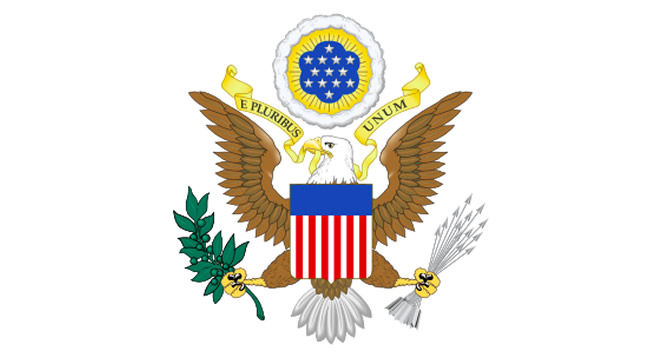
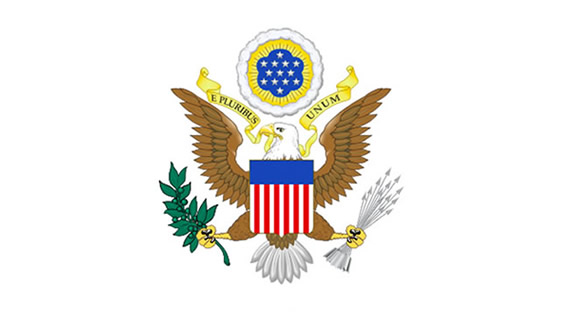
first commit

Changed region(s): [[0.2661, 0.0287, 0.7391, 0.9745]]

diff --git a/app/components/codeblue/codeblue.js b/app/components/codeblue/codeblue.js
@@ -43,7 +43,7 @@ const Codeblue = () => {
                 <div className="other__hero">
                     {/* Single Content */}
                     <div className="single__content other__fade-in">
-                        <h1>Thinking Big:  </h1>
+                        <h1>Code Blue </h1>
 
                         <div className="qoutes-box glossy__bg_quote">
                             <h3>Insight:</h3>
@@ -61,15 +61,15 @@ const Codeblue = () => {
                             </h3>
                              
                             
-                            <p class="spacebot"><b><span class="blue">Code Blue</span> is the Hospital Signal for Emergency…Lives are at stake!</b></p>
+                            <p ><b><span class="blue">Code Blue</span> is the Hospital Signal for Emergency…Lives are at stake!</b></p>
 
-                            
+                            <p class="spacebot"> Tens of thousands of lives are being lost each month in the Ukraine conflict…tens of thousands of families are being heart broken…tens of billions of dollars are going up in smoke with the destruction of assets and the disruption of lives, infrastructure and businesses.   The battlefield is mired down, looking more and more like World War I with 21st century armaments guided by 21st century technology.  The speeches of our elected politicians and the media coverage are dominated by death, destruction and armaments. There is no path to peace… virtually no discussion of a negotiated peace.  This war was conceived by humans and can be ended by humans. 
+                            &nbsp;<b>Let’s get started today!</b></p>
                             
                         </div>
                         <div className="think__item">
                             <div className="think__item-content single__content-subhead">
-                            <p > Tens of thousands of lives are being lost each month in the Ukraine conflict…tens of thousands of families are being heart broken…tens of billions of dollars are going up in smoke with the destruction of assets and the disruption of lives, infrastructure and businesses.   The battlefield is mired down, looking more and more like World War I with 21st century armaments guided by 21st century technology.  The speeches of our elected politicians and the media coverage are dominated by death, destruction and armaments. There is no path to peace… virtually no discussion of a negotiated peace.  This war was conceived by humans and can be ended by humans. 
-                            &nbsp;<b>Let’s get started today!</b></p>
+                            
 
                             <p >The continued political and military support of the Ukrainian government by the U.S. & NATO is totally justified and not in question.   The Russian aggression has been condemned twice by over 140 countries by United Nations declarations. </p> 
                             
@@ -81,7 +81,7 @@ const Codeblue = () => {
                                  
                             </div>
 
-                            <div className="think__item-image">
+                            <div className="think__item-image" id="seal">
                                 <img src="/images/seal.jpg" alt="US Seal" />
                             </div>
                              
@@ -96,10 +96,10 @@ const Codeblue = () => {
                                 
                                 <p>Traditional back channel talks, labeled “Track 2,” are going on: a June conference of peace organizations in Vienna, a meeting in Copenhagen in which Zelensky sought the support of “neutral” nations, and even talks between “former” U.S. diplomats and Russian representatives.    Let’s start down Track 1:  Negotiations by the credentialed diplomats of major countries under the auspices of the United Nations.   </p>
 
-                                <p class="spacebot">Sure…the United Nations has low credibility because of its structure and governing rules; however, it is in place and functioning today.   Given its charter and mission,  the UN clearly is the right entity to call for a Cease Fire and to establish a negotiating process for a just, sustainable Peace.  In September 2022, the UN Department of Political & Peacebuilding Affairs (DPPA) published a 69-page Guidance on Mediation of Ceasefires.   It’s down in black and white on how to proceed to a Cease Fire…and September 21st is officially UN International Peace Day.  <b>The stage is set for at least a preliminary Cease Fire!</b></p> 
+                                <p class="spacebot">Sure... the United Nations has low credibility because of its structure and governing rules; however, it is in place and functioning today.   Given its charter and mission,  the UN clearly is the right entity to call for a Cease Fire and to establish a negotiating process for a just, sustainable Peace.  In September 2022, the UN Department of Political & Peacebuilding Affairs (DPPA) published a 69-page Guidance on Mediation of Ceasefires.   It’s down in black and white on how to proceed to a Cease Fire…and September 21st is officially UN International Peace Day.  <b>The stage is set for at least a preliminary Cease Fire!</b></p> 
                             </div>
                             <div className="think__item-image">
-                                <img src="/images/dppa.jpg" alt="DPPA" />
+                                <img src="/images/un.jpg" alt="United Nations" />
                             </div>
                              
                         </div>
@@ -142,14 +142,14 @@ const Codeblue = () => {
                                 <li class="codeblue"><b>By Year end, The Peace Advisory Committee Issues First Draft Guidelines</b> for a Definitive Cease Fire & a Just, Sustainable Peace based on the principles of the UN Charter and published Guidance on Mediation of Ceasefires.</li>
                             </ol>
                             
-                            <p ><b>Challenging:  Yes.   Impossible:  No!</b></p>
+                            <h3 id="centertext">Challenging:  Yes.   Impossible:  No!</h3>
 
                             
 
                         </div>
 
                         <div className="single__content-subhead">
-                            <p><b>What Can You Do?   <a href="" className="conlink">Click Here</a> to be a part of the <span class="blue">Code Blue</span> Team</b></p>
+                            <h3>What Can You Do?   <a href="" className="conlink">Click Here</a> to be a part of the <span class="blue">Code Blue</span> Team</h3>
                         </div>
                     </div>
                 </div>

diff --git a/app/components/Footer.js b/app/components/Footer.js
@@ -16,7 +16,7 @@ const Footer = () => {
                         <Link href="/codeblue" class="whitelink">
                         <Blog
                             title="CodeBlue"
-                            imgUrl="/images/cb.png"
+                            imgUrl="/images/cb.jpg"
                             imgAlt="CodeBlue"
                         />
                         </Link>
@@ -24,7 +24,7 @@ const Footer = () => {
                         <Link href="/peersourcing" class="whitelink">
                         <Blog
                             title="PeerSourcing"
-                            imgUrl="/images/ps.png"
+                            imgUrl="/images/ps.jpg"
                             imgAlt="PeerSourcing"
                         />
                         </Link>

diff --git a/app/components/who/who.js b/app/components/who/who.js
@@ -215,10 +215,9 @@ const Who = () => {
                             {/* Single Team */}
                             <div className="team">
                                 <div className="team__heading">
-                                    <h4>Anthony G.</h4>
+                                    <h4>Anthony G. (Tony) Miller</h4>
                                     <h5>
-                                        (Tony) Miller - Managing Partner,
-                                        ThunderHouse Canada
+                                         Managing Partner, ThunderHouse Canada
                                     </h5>
                                 </div>
 

diff --git a/app/globals.css b/app/globals.css
@@ -485,8 +485,7 @@ footer {
 }
 
 .single__project:hover .single__project-image img {
-  transform: translate3d(0px, 0px, 0px) scale3d(1.2, 1.2, 1) rotateX(0deg)
-    rotateY(0deg) rotateZ(-3deg) skew(0deg, 0deg);
+  
   transition: transform 4.5s ease;
   -webkit-transition: transform 4.5s ease;
   -moz-transition: transform 4.5s ease;
@@ -818,6 +817,10 @@ a.conlink2 {
   -o-border-radius: 20px;
   box-shadow: 3px 4px 30px 2px rgba(146, 226, 243, 0.25);
 }
+
+#seal {height: 300px;}
+
+#centertext {text-align: center;}
 
 .think__item-image img {
   border-radius: 20px;

diff --git a/app/components/work/work.js b/app/components/work/work.js
@@ -66,7 +66,7 @@ const Work = () => {
                   <h3>The Three Dimensional Approach</h3>
                   <p>
                     ThunderHouse views the innovator's challenge in three
-                    dimensionsl:{" "}
+                    dimensions:{" "}
                     <b>The Product, The Audience and The Marketplace. &nbsp;</b>
                     With a clear vision of success in hand, ThunderHouse helps
                     Clients formulate positionings, strategies and action plans.

diff --git a/app/components/peersourcing/peersourcing.js b/app/components/peersourcing/peersourcing.js
@@ -43,7 +43,7 @@ const Peersourcing = () => {
                 <div className="other__hero">
                     {/* Single Content */}
                     <div className="single__content other__fade-in">
-                        <h1>PeerSourcing:  </h1>
+                        <h1>PeerSourcing </h1>
 
                         <div className="qoutes-box glossy__bg_quote" id="shortbox">
                                     <h3>Insight:</h3>
